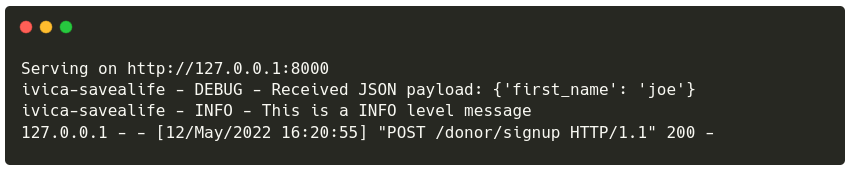
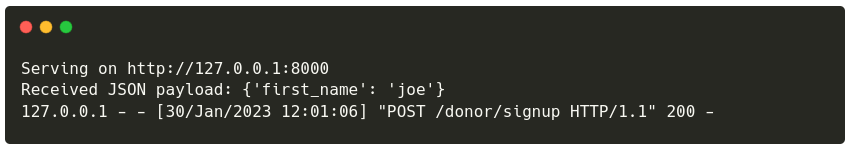
fixes images in the logging chapter (30/600)

diff --git a/workshop/content/30-donor-signup/600-logging/_index.md b/workshop/content/30-donor-signup/600-logging/_index.md
@@ -68,7 +68,7 @@ and in another terminal window/tab
 chalice local --autoreload
 ```
 will output
-![](/images/code_screenshots/30_600_1.png)
+![](/images/code_screenshots/30_600_2.png)
 
 It is not the prettiest or the most informative log line but
 ![](/images/logging_something.png)
@@ -108,13 +108,13 @@ def donor_signup():
     return body
 {{</highlight>}}
 
-Which produces log messages that feel like messages produced by the `logging` module from stdlib.
+Which produces log messages that feel like messages produced by the `logging` module from the standard library.
 
 ```bash{linenos=false}
-chalice local --autoreload
+http :8000/donor/signup first_name=joe
 ```
-outputting
-![](/images/code_screenshots/30_600_2.png)
+will output:
+![](/images/code_screenshots/30_600_3.png)
 
 Deploy these changes with `chalice deploy` and invoke the function:
 
@@ -133,7 +133,7 @@ chalice logs
 ```
 will output something similar to:
 
-![](/images/code_screenshots/30_600_4.svg)
+![](/images/code_screenshots/30_600_4.png)
 
 These logs are stored remotely in a service called [AWS CloudWatch](https://aws.amazon.com/cloudwatch/). Apart from log 
 storage it provides metrics, dashboards and alarms for resources in your account (Lambda functions, DynamoDB tables etc.)
